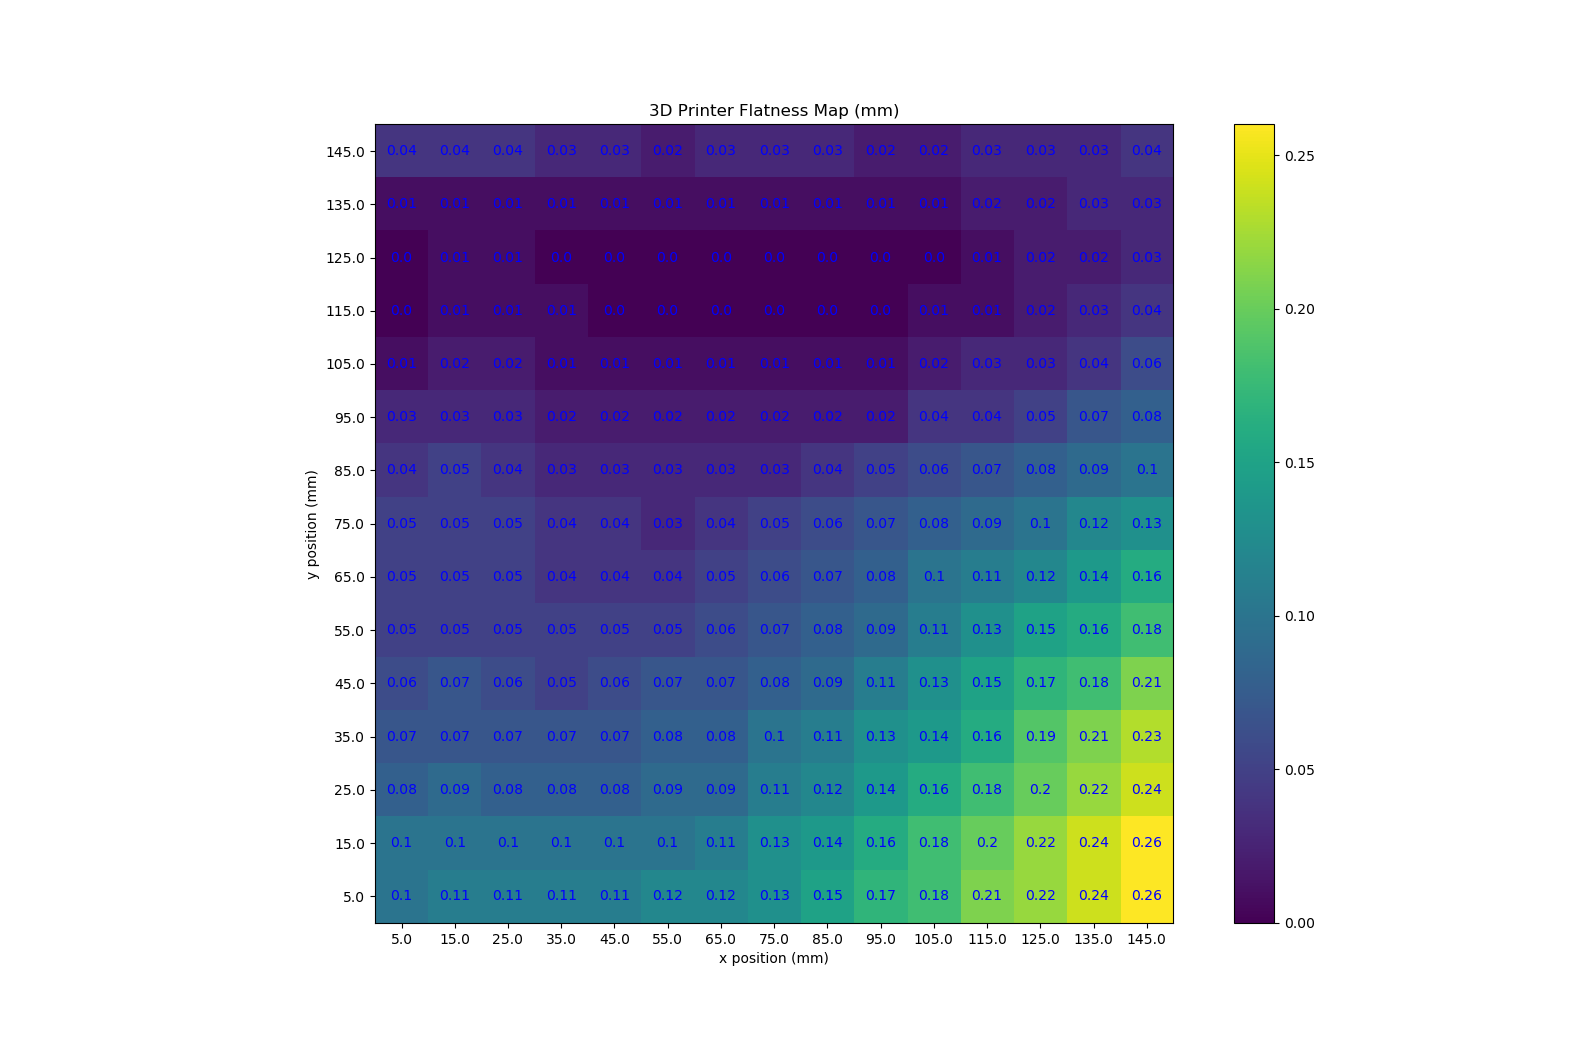
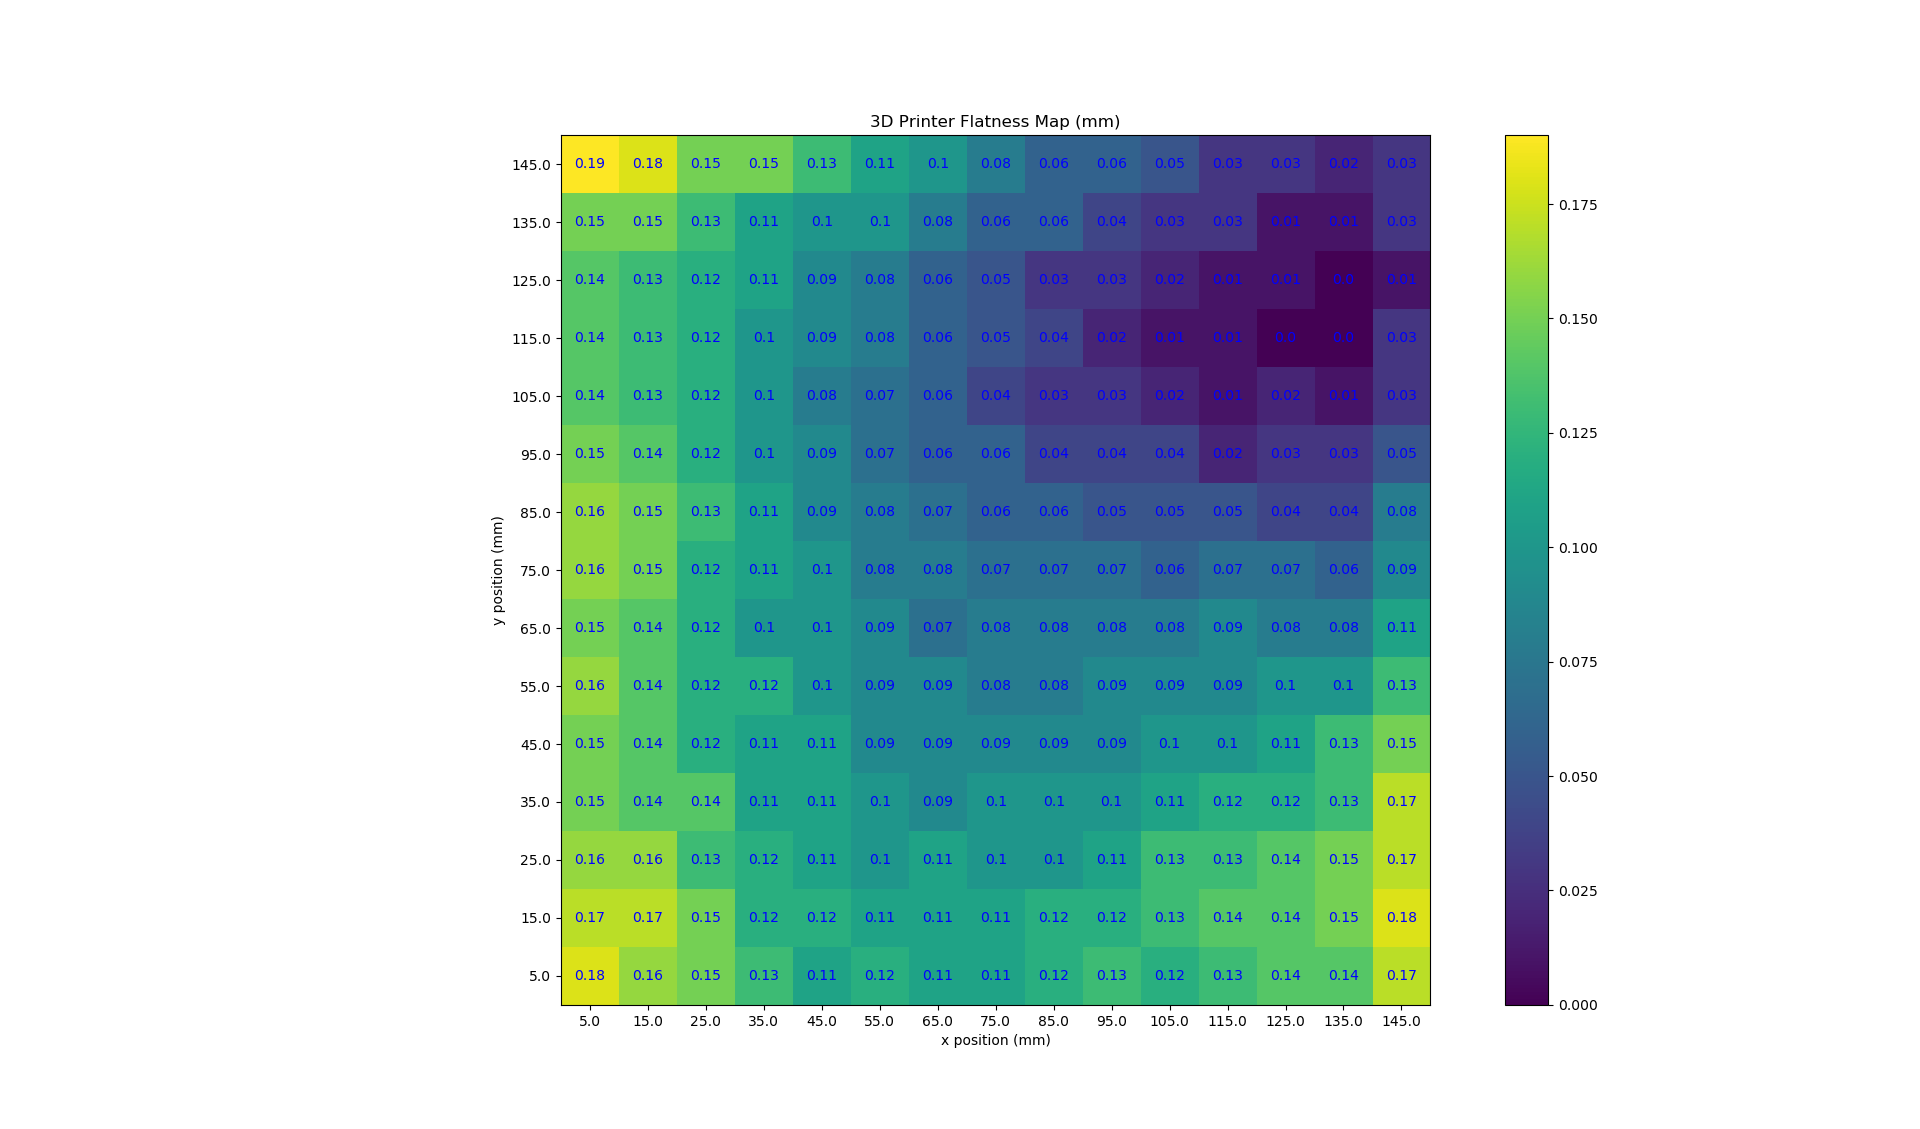
works as intended, and everything is tested except the windows executable.

diff --git a/meshscan.py b/meshscan.py
@@ -33,7 +33,7 @@ X_LIM = 150 #default x size in pritner units (ussually mm)
 Y_LIM = 150 #default y size in printer units (ussually mm)
 SPACING = 25 #default distance between points. 
 FEED = 4000
-LEVELING = True
+LEVELING = False
 
 
 #TODO: The correction is a corrective operation

diff --git a/README.md b/README.md
@@ -72,13 +72,24 @@ connected to your computer. Both can be found in your g-code sender. A good
 default comport for ubuntu is '/dev/ttyACM0' and a good default guess for 
 windows is 'COM0'.
 
+#### Reading the plot
+
+The heat map is annotated with the "height" of each probe point relative to the 
+lowest position probed. When using the script in G29 compatability mode, the 
+"height" used is given by [measured bed height] - [bed compensation offset]. 
+This means that areas that read as higher (more yellow) on the chart will tend
+to have a nozel closer to the bed and areas that read lower (more blue) will
+tend to have the nozel farther from the bed. 
+
+In general, a difference of more then about .05 is probobly cause for concern. 
+
 #### Command Line Arguments
 
 
 |Parameter                     | Default | Description |
 | :----------------------------|:--------|:------------|
 | -v, verbose                  | False   | prints out extra info.|
-| -l, leveling                 | False   | Apply compatability with G29 height compensation. 
+| -l, leveling                 | False    | Apply compatability with G29 height compensation (doubles run time). 
 | -b, baud                     | 250000  | baud rate for serial transmission. (firmware specific)|
 | -p, port                     | /dev/ttyACM0 | COMPORT to use for communicating with the printer.|
 | -x, x_limit                  | 150     | size of area to scan in mm. |
